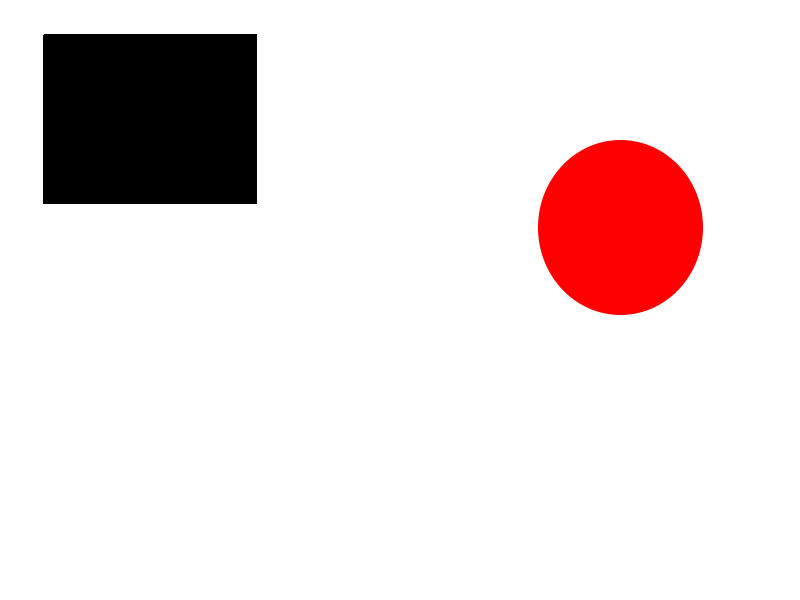
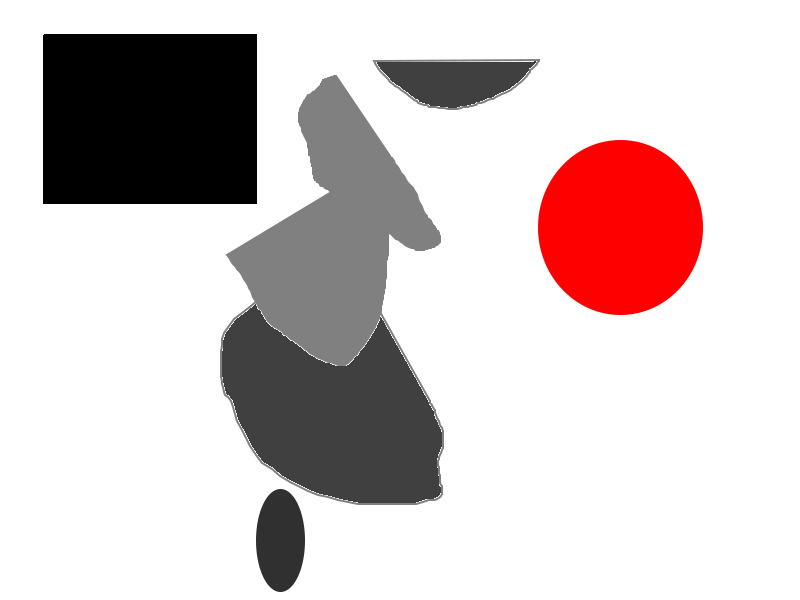
Updated an image with nonhomogeneous costs and fixed readimage and related bugs

Changed region(s): [[0.25, 0.12, 0.5625, 0.99], [0.4688, 0.09, 0.6875, 0.18]]

diff --git a/script.py b/script.py
@@ -12,18 +12,36 @@ from scipy.misc import imread
 import time
 
 DIR_STRINGS = ["left", "down", "right", "up"]
-AXES = ['x', 'y']
 DIRS = np.array([[-1, 0], [0, -1], [1, 0], [0, 1]])
 
 
-def read_image(filename='ex5.png'):
+def read_image(filename='ex2.png'):
+    """
+    Read an image and convert it to a *landscape*, a 2D array with cost fields.
+    This cost field forms the input for the weighted distance transform
+    zero costs denote exits, infinite costs denote obstacles.
+    For now, we follow previous Mercurial standards: obstacles are in black, exits in red.
+    Accessible space is in white, less accessible space has less white.
+    :param filename: file of the PNG/JPEG image to be read
+    :return: 2D array representing the cost field
+    """
     data = imread(filename, mode='RGB')
-    exits = np.where(data[:, :, 0] - data[:, :, 1] > 200)
-    obstacles = np.where(data[:, :, 1] < 100)
-    u = np.ones(data[:, :, 0].shape)
-    u[obstacles] = np.inf
-    u[exits] = 0
-    return u
+    # Exits are present in all red enough places ("R >> BG")
+    exits = np.where(data[:, :, 0] - (data[:, :, 1] + data[:, :, 2]) / 2 > 160)
+    # Obstacles are in black (so at least G and B must be zero)
+    obstacles = np.where(data[:, :, 1] + data[:, :, 2] == 0)
+    # Convert image to greyscale
+    grey_scales = np.dot(data[..., :3], [0.299, 0.587, 0.114])
+    # Boolean index array for places without exits and obstacles
+    space = np.ones(grey_scales.shape, dtype=np.bool)
+    space[exits] = False
+    space[obstacles] = False
+    # Cost field: Inversely proportional to greyscale values
+    cost_field = np.empty(data[:, :, 0].shape)
+    cost_field[obstacles] = np.inf
+    cost_field[exits] = 0
+    cost_field[space] = 1. / grey_scales[space]
+    return cost_field
 
 
 # TODO Change "potentials" to "distances"
@@ -81,7 +99,7 @@ def compute_potential(cell, costs, potential):
         hor_pot, ver_pot = pots_from_axis
         hor_cost, ver_cost = costs_from_axis
         # Coefficients of quadratic equation (upwind discretization)
-    a = 1 / hor_cost ** 2 + 1 / ver_cost ** 2
+    a = 1. / hor_cost ** 2 + 1. / ver_cost ** 2
     b = -2 * (hor_pot / hor_cost ** 2 + ver_pot / ver_cost ** 2)
     c = (hor_pot / hor_cost) ** 2 + (ver_pot / ver_cost) ** 2 - 1
 
@@ -99,7 +117,6 @@ def compute_distance_transform(u):
     :return: weighted distance transform
 
     """
-    # nx,ny = u.shape
 
     # Cost for moving along horizontal lines
     u_x = np.ones([nx + 1, ny], order='F') * np.inf
@@ -135,6 +152,8 @@ def compute_distance_transform(u):
             min_potential, best_cell = heapq.heappop(cand_heap)
             if phi[best_cell] == np.inf:
                 popped_new_potential = True
+            elif min_potential == np.inf: # No more finite values; done
+                return phi
         candidate_cells.pop(best_cell)
         phi[best_cell] = min_potential
         unknown_cells.remove(best_cell)
@@ -146,10 +165,14 @@ def compute_distance_transform(u):
 u = read_image()
 nx, ny = u.shape
 import matplotlib.pyplot as plt
-
+# print("min",np.min(u),"max",np.max(u[u<np.inf]))
+# plt.imshow(u)
+# plt.colorbar()
+# plt.show()
 time1 = time.time()
 phi = compute_distance_transform(u)
 time2 = time.time()
 print(time2 - time1)
+plt.figure()
 plt.imshow(phi)
 plt.show()
